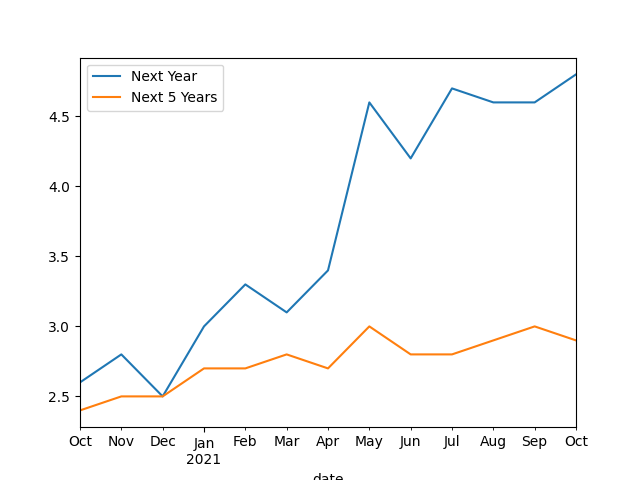
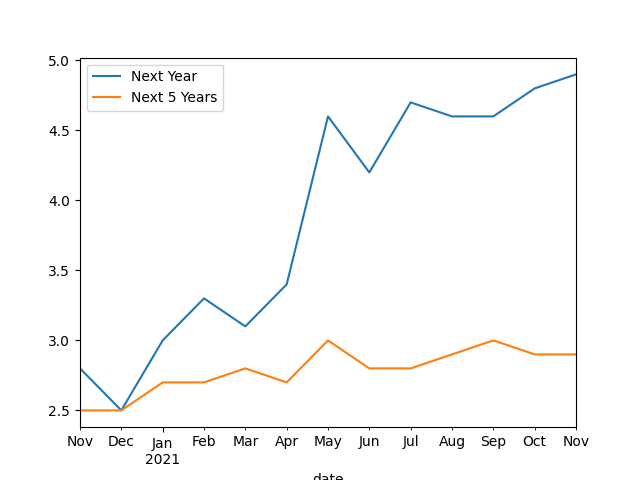
-

diff --git a/en/2019/05/stats.md b/en/2019/05/stats.md
@@ -113,11 +113,11 @@ plt.savefig('infexp.png')
 ```text
             Next Year  Next 5 Years
 date                               
-2021-06-01        4.2           2.8
 2021-07-01        4.7           2.8
 2021-08-01        4.6           2.9
 2021-09-01        4.6           3.0
 2021-10-01        4.8           2.9
+2021-11-01        4.9           2.9
 ```
 
 ![](infexp.png)
